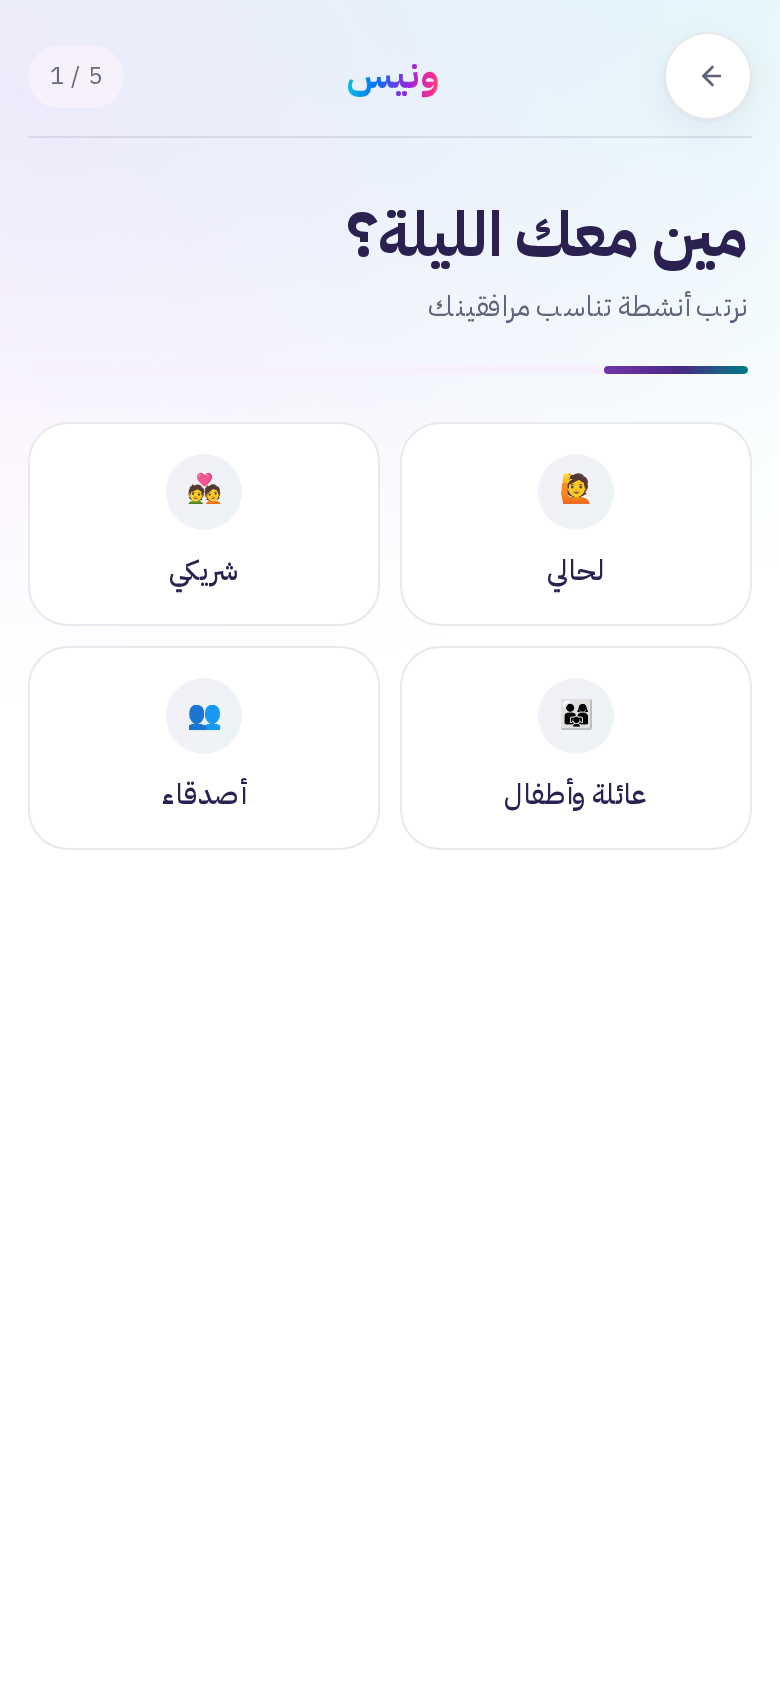
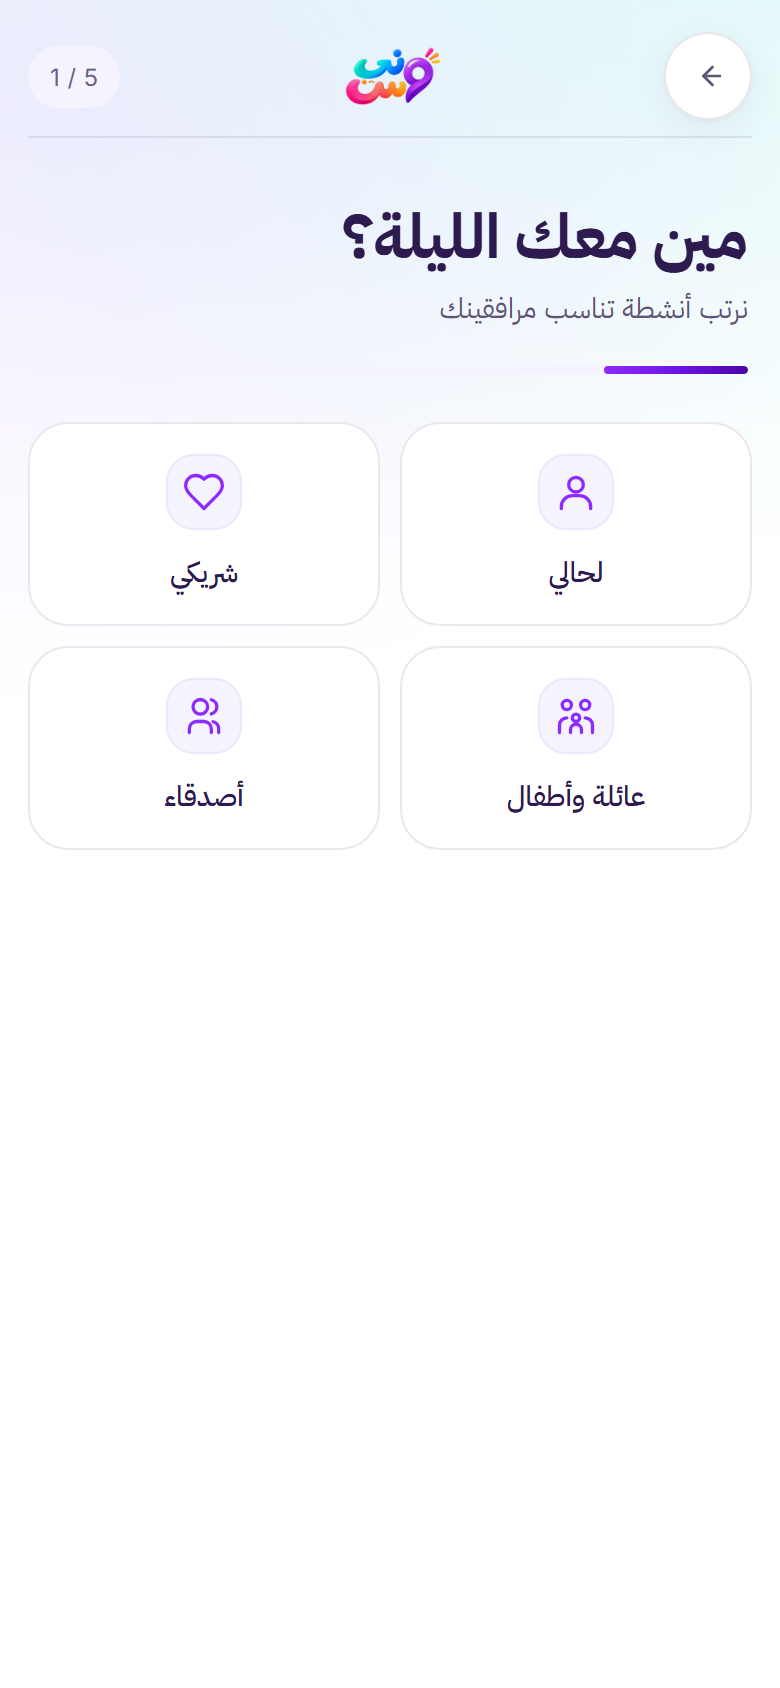
Polish the GitHub README and refresh screenshots in the new identity
- README: logo header, slogan, CI and stack badges, clone step, accurate
  Node 26 requirement, brand section, desktop screenshots, local demo-login
  note, and a documentation index. Every link and npm script is checked.
- Screenshots retaken from the running apps with the new visual identity.
- capture-screens.mjs scopes the organizer login fields to the form, since
  the local demo-credentials panel has copy buttons with the same labels.
- Mascot images: near-white backgrounds (250-254) lifted to pure white so
  the multiply blend leaves no faint box on lavender and wave surfaces.

diff --git a/README.md b/README.md
@@ -1,6 +1,24 @@
+<p align="center">
+  <img src="app/public/brand/logo.webp" height="120" alt="ونيس WANEES">
+</p>
+
+<h3 align="center">الونيس اللي بيونسك</h3>
+
+<p align="center">
+  The personal AI guide for festival and event visitors · Arabic-first · built for Riyadh Season's Boulevard World
+</p>
+
+<p align="center">
+  <a href="https://github.com/abc7pq/wanees_platform/actions/workflows/ci.yml"><img src="https://github.com/abc7pq/wanees_platform/actions/workflows/ci.yml/badge.svg?branch=main" alt="CI"></a>
+  <img src="https://img.shields.io/badge/Node.js-26-8e2bff" alt="Node.js 26">
+  <img src="https://img.shields.io/badge/Next.js-15-4a05a6" alt="Next.js 15">
+  <img src="https://img.shields.io/badge/PostgreSQL-16-0066ff" alt="PostgreSQL 16">
+  <img src="https://img.shields.io/badge/UI-Arabic%20RTL-ff1e8d" alt="Arabic RTL">
+</p>
+
 <div dir="rtl">
 
-# ونيس · WANEES
+## ونيس · WANEES
 
 **المرشد الذكي اللي يونسك — من حوسة وضياع إلى تجربة أونس.**
 
@@ -10,9 +28,10 @@
 </div>
 
 <p align="center">
-  <img src="docs/screenshots/03-plan-next-step.png" width="230" alt="خطوتك الجاية">
-  <img src="docs/screenshots/04-change-proposal.png" width="230" alt="اقتراح تعديل المسار">
-  <img src="docs/screenshots/05-assistant.png" width="230" alt="مساعد ونيس">
+  <img src="docs/screenshots/01-home.png" width="190" alt="الصفحة الرئيسية">
+  <img src="docs/screenshots/03-plan-next-step.png" width="190" alt="خطوتك الجاية">
+  <img src="docs/screenshots/04-change-proposal.png" width="190" alt="اقتراح تعديل المسار">
+  <img src="docs/screenshots/05-assistant.png" width="190" alt="مساعد ونيس">
 </p>
 
 <div dir="rtl">
@@ -43,11 +62,20 @@
 | مصادر البيانات: التطبيق، العروض، الطقس | ✅ | قراءات المشغّل وحضور أجهزة الزوار (بموافقتهم) والطقس الحي فعلية. البوابات والعدّادات تحتاج أجهزة الموقع، وتظهر كمصدر «محاكاة» واضح |
 | محرك المسارات والوكيل الحواري ولوحتا الزائر والمشغّل مع اختبارات ناجحة | ✅ | CI أدناه: وحدات، عقد API، قاعدة بيانات، HTTP، قصة العرض كاملة، اختبارات متصفح على ثلاثة محركات (Chromium وFirefox وWebKit)، اختبار حمل |
 | مقارنة التوصية بتوجيه الزائر للأقل ازدحامًا | ✅ محاكاة حتمية | `node scripts/simulate.mjs` و«مسرح الحركة» `/ops/theater`: نفس توازن الحمل (١٠٠٪)، واكتشاف الأنشطة الأقل شهرة ٦٣٫٦٪ مقابل ٥١٫٤٪ |
-| قياس الأثر ميدانيًا | ⏭ الخطوة الجاية | كما في العرض: تجربة في منطقة وحدة. دليل التشغيل جاهز: `docs/VENUE_PILOT_RUNBOOK.md` |
+| قياس الأثر ميدانيًا | ⏭ الخطوة الجاية | كما في العرض: تجربة في منطقة وحدة. دليل التشغيل جاهز: [`docs/VENUE_PILOT_RUNBOOK.md`](docs/VENUE_PILOT_RUNBOOK.md) |
 
 مواعيد العروض والإقبال المتوقع افتراضات تخطيط (الموقع ما ينشر جدولًا)، ومعلَّمة كذا في الواجهة.
 
+## الهوية البصرية
+
+الشعار والألوان والخطوط والتميمة مطبّقة في التطبيقين حسب «دليل الهوية البصرية — ونيس»: بنفسجي `#8E2BFF` أساسي مع تيل وأزرق ووردي وبرتقالي وأصفر، خط IBM Plex Sans Arabic للعربي و Inter للإنجليزي، وتميمة ونيس ترافق الزائر. التفاصيل وأين يظهر كل عنصر: [`docs/BRAND_IDENTITY.md`](docs/BRAND_IDENTITY.md).
+
 </div>
+
+<p align="center">
+  <img src="docs/screenshots/06-ops-dashboard.png" width="410" alt="لوحة المشغّل">
+  <img src="docs/screenshots/07-organizer.png" width="410" alt="لوحة إدارة المنظّم">
+</p>
 
 ## Architecture
 
@@ -68,15 +96,18 @@ The computer calculates, the agent explains, the visitor decides. The language m
 
 ## Run it locally
 
-Requirements: **Node.js 26** (22.6+ works) and **PostgreSQL 16+** (a local install, or `docker compose up -d postgres`).
+Requirements: **Node.js 26** (`.nvmrc` pins 26.12.1; both apps require ≥ 26) and **PostgreSQL 16+** (a local install, or `docker compose up -d postgres`).
 
 ```bash
+git clone https://github.com/abc7pq/wanees_platform.git
+cd wanees_platform
+
 # 1. Install, write local env files, create + migrate + seed the database
 DATABASE_URL="postgresql://wanees:wanees_dev@localhost:5432/wanees?schema=public" \
 OPENAI_API_KEY="sk-..." \
 npm run setup            # the OpenAI key is optional: planning works without it
 
-# 2. Build and start both apps
+# 2. Build and start both apps (add -- --force to rebuild after changes)
 npm run start:local
 
 # 3. In a second terminal: verify everything against the running apps
@@ -87,9 +118,12 @@ On Windows PowerShell set the variables first: `$env:DATABASE_URL="..."; $env:OP
 
 | Open | URL |
 |---|---|
+| Landing page | http://localhost:3100 |
 | Visitor app | http://localhost:3100/demo |
 | Operator view | http://localhost:3100/ops |
 | Organizer app | http://localhost:3200 — `owner@wanees.demo`, password printed by `npm run setup` |
+
+For a quick local demo login, `npm run db:demo-admin` creates a demo organizer and shows its email and password in a panel on the login page. The panel only appears on `localhost`.
 
 ## Verify everything
 
@@ -101,10 +135,11 @@ On Windows PowerShell set the variables first: `$env:DATABASE_URL="..."; $env:OP
 | Full HTTP flow (session, plan, assistant, live update, replan, revoke) | `npm run test:http` |
 | The presentation story end to end (family, 300 SAR, 25-minute delay, approval) | `npm run test:deck-story` |
 | Every pitch-deck number against the shipped data · catalog built from its sources | `npm run claims:audit` · `npm run catalog:build -- --check` |
-| Responsive browser suite (Chromium, Firefox, WebKit) | `npm run test:ui` |
+| Responsive browser suite (Chromium, Firefox, WebKit) | `npm run test:ui` (needs a throwaway database in `WANEES_UI_DATABASE_URL`) |
 | 120-request concurrency smoke | `node scripts/load-test.mjs http://127.0.0.1:3100 120 12 1500` |
+| README screenshots | `node --env-file=admin/.env.local scripts/capture-screens.mjs` |
 
-CI runs all of the above on every push and pull request against a real PostgreSQL 16.
+CI runs all of the above on every push to `main` and every pull request, against a real PostgreSQL 16.
 
 ## Security
 
@@ -116,6 +151,8 @@ CI runs all of the above on every push and pull request against a real PostgreSQ
 - **Legacy operator token.** `ADMIN_TOKEN` is a break-glass header for scripts; leave it unset in production and use organizer logins.
 - **Hardening.** Health checks expose no internals; both apps send `frame-ancestors 'none'`, `nosniff`, a strict referrer policy and a minimal `Permissions-Policy`; backups are encrypted with AES-256-GCM.
 
+Report vulnerabilities privately as described in [SECURITY.md](SECURITY.md).
+
 ## Repository map
 
 | Path | What it is |
@@ -125,9 +162,22 @@ CI runs all of the above on every push and pull request against a real PostgreSQ
 | `packages/engine/` | Deterministic planner, coordinator, simulation |
 | `packages/contracts/` | Shared API contracts |
 | `prisma/` | Schema, migrations, seed |
-| `scripts/` | Local workflow, smoke tests, backup, import, simulation |
+| `scripts/` | Local workflow, smoke tests, backup, import, simulation, screenshots |
 | `data/sources/` | The season data: team records, zone positions, verified prices (`npm run catalog:build` turns them into the published catalog) |
-| `docs/` | Architecture decisions, API contract, runbooks, evaluation, simulation |
+| `docs/` | Architecture decisions, API contract, runbooks, evaluation, simulation, brand identity |
+
+## Documentation
+
+| Topic | Document |
+|---|---|
+| Product direction and build plan | [MASTER_BUILD_PLAN.md](docs/MASTER_BUILD_PLAN.md) · [PRODUCT_PLATFORM_PLAN.md](docs/PRODUCT_PLATFORM_PLAN.md) |
+| Working on the code (people and AI agents) | [AGENTS.md](AGENTS.md) · [AI_AGENT_CONTEXT.md](docs/AI_AGENT_CONTEXT.md) |
+| Database schema · architecture decisions | [DATABASE_SCHEMA.md](docs/DATABASE_SCHEMA.md) · [docs/decisions](docs/decisions) |
+| API contract | [docs/api](docs/api) |
+| Running it · operations · venue pilot | [RUNBOOK_LOCAL.md](docs/RUNBOOK_LOCAL.md) · [OPERATIONS_RUNBOOK.md](docs/OPERATIONS_RUNBOOK.md) · [VENUE_PILOT_RUNBOOK.md](docs/VENUE_PILOT_RUNBOOK.md) |
+| Privacy and retention | [RETENTION.md](docs/RETENTION.md) · [llm-data-flow.md](docs/privacy/llm-data-flow.md) |
+| Evaluation and simulation | [AI_EVAL.md](docs/AI_EVAL.md) · [SIMULATION.md](docs/SIMULATION.md) · [docs/eval](docs/eval) |
+| Brand identity | [BRAND_IDENTITY.md](docs/BRAND_IDENTITY.md) |
 
 <div dir="rtl">
 
